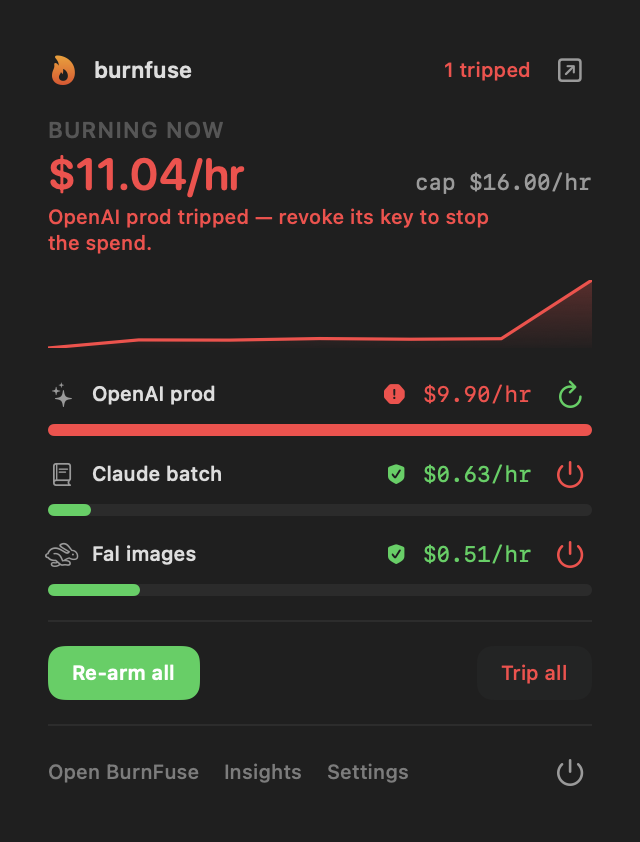
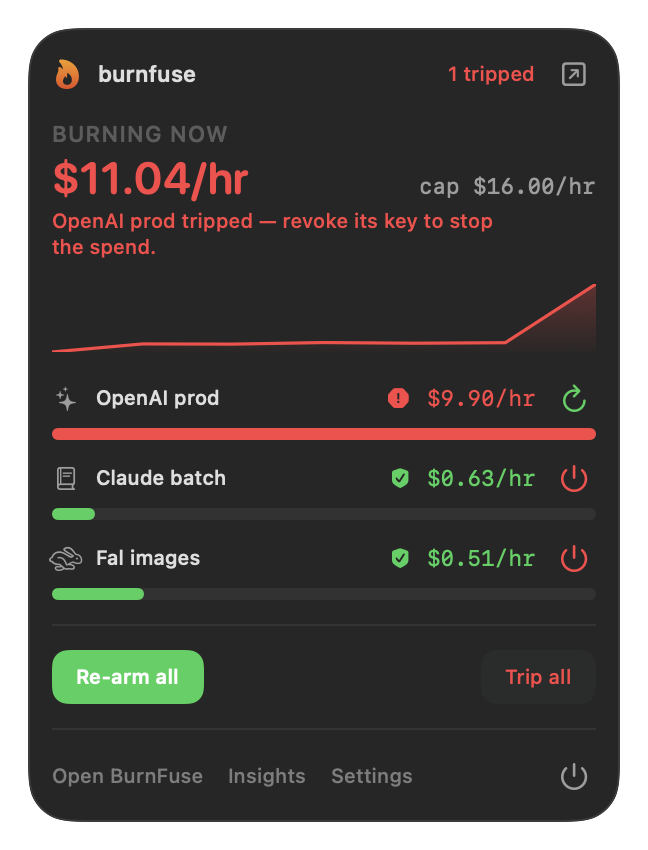
The menu-bar item opens the panel, not the app
Bug report: clicking the menu-bar icon opened the whole BurnFuse window
along with the mini panel — a glance at the burn rate reorganised the
screen. The cause was the shape of the thing: an NSPopover can only be
interactive while its app is active, so showing it began with

    NSApp.activate(ignoringOtherApps: true)

and activating the app is precisely what raised its window over whatever
was open, on whatever Space the window lived on.

The panel is now a `.nonactivatingPanel` — a borderless, transparent
window that can take clicks and key without activating anything, shown
with `orderFrontRegardless()` and joining the Space you are on. The app
opens only when something inside the panel asks for it.

That change moved the chrome onto the panel itself: there is no popover
behind it providing a background, so MiniPanel draws its own rounded
surface and border, and the screenshot pass captures that same view
rather than a fake flat rectangle behind it.

The new behaviour is checked, not asserted. `--panel-self-check` puts the
app in the background with its window away, shows the panel the way a
click does, and reports whether the panel appeared, whether the app
became active and whether any window came back; scripts/verify.sh fails
on the answer. With the old activation line put back, the check reports
`app-active=true` — the bug, caught.

Dismissal is handled where a panel needs it: a click in another app or on
[…]

diff --git a/macos/Sources/BurnFuse/MiniPanelHost.swift b/macos/Sources/BurnFuse/MiniPanelHost.swift
@@ -1,0 +1,158 @@
+import AppKit
+import SwiftUI
+
+/// The window that hangs off the menu-bar item.
+///
+/// A `.nonactivatingPanel`, deliberately not an `NSPopover`. A popover can only
+/// be interactive while its app is active, and activating the app is what
+/// dragged the whole BurnFuse window forward over whatever you were doing —
+/// asking for a glance at the burn rate reorganised the screen. A nonactivating
+/// panel takes clicks, can take key without activating, and joins the Space you
+/// are on, which is what a menu-bar item is supposed to do. The full window
+/// opens only from the actions inside the panel that ask for it.
+@MainActor
+final class MiniPanelHost {
+
+    private let panel: MiniPanelWindow
+    /// The menu-bar item's frame in screen coordinates, so a click on the item
+    /// is left to the item (it is the toggle) while a click anywhere else closes
+    /// the panel.
+    private var anchorRect: NSRect = .zero
+    private var globalClick: Any?
+    private var localClick: Any?
+    private var escape: Any?
+    private var observings: [NSObjectProtocol] = []
+
+    init<Content: View>(content: Content) {
+        let hosting = NSHostingController(rootView: content)
+        hosting.sizingOptions = [.preferredContentSize]
+
+        panel = MiniPanelWindow(
+            contentRect: NSRect(x: 0, y: 0, width: 296, height: 320),
+            styleMask: [.borderless, .nonactivatingPanel],
+            backing: .buffered,
+            defer: false
+        )
+        panel.contentViewController = hosting
+        panel.isFloatingPanel = true
+        panel.level = .statusBar
+        // A panel that hid itself whenever the app was not active would vanish
+        // the moment it appeared: the app is deliberately not activated.
+        panel.hidesOnDeactivate = false
+        // Take key only when something in here actually needs it, so a glance
+        // does not take focus away from what you were typing in.
+        panel.becomesKeyOnlyIfNeeded = true
+        panel.isMovable = false
+        panel.isMovableByWindowBackground = false
+        panel.collectionBehavior = [.canJoinAllSpaces, .fullScreenAuxiliary, .ignoresCycle]
+        panel.backgroundColor = .clear
+        panel.isOpaque = false
+        panel.hasShadow = true
+    }
+
+    var isShown: Bool { panel.isVisible }
+
+    func toggle(relativeTo button: NSStatusBarButton) {
+        if panel.isVisible { hide() } else { show(relativeTo: button) }
+    }
+
+    func show(relativeTo button: NSStatusBarButton) {
+        if let buttonWindow = button.window {
+            anchorRect = buttonWindow.convertToScreen(button.convert(button.bounds, to: nil))
+        }
+        // Size to the content before placing it, so the panel lands under the
+        // item rather than halfway across the screen.
+        if let content = panel.contentViewController?.view {
+            panel.setContentSize(content.fittingSize)
+        }
+        place()
+        // The whole point: order the panel in without activating anything.
+        // `orderFrontRegardless` is what shows a window for an app that stays in
+        // the background.
+        panel.orderFrontRegardless()
+        watchForDismissal()
+    }
+
+    func hide() {
+        stopWatching()
+        panel.orderOut(nil)
+    }
+
+    // MARK: - Placement
+
+    private func place() {
+        let size = panel.frame.size
+        let anchorPoint = NSPoint(x: anchorRect.midX, y: anchorRect.midY)
+        let screen = NSScreen.screens.first { $0.frame.contains(anchorPoint) } ?? NSScreen.main
+
+        // Just under the menu bar item, centred on it, and never off the edge of
+        // the screen it was clicked on.
+        var origin = NSPoint(x: anchorRect.midX - size.width / 2, y: anchorRect.minY - size.height - 8)
+        if let visible = screen?.visibleFrame {
+            origin.x = min(max(origin.x, visible.minX + 8), visible.maxX - size.width - 8)
+            origin.y = max(origin.y, visible.minY + 8)
+        }
+        panel.setFrameOrigin(origin)
+    }
+
+    // MARK: - Dismissing
+
+    private func watchForDismissal() {
+        stopWatching()
+
+        // A click in another app, on the desktop, or on another menu-bar item.
+        // Clicks inside this panel are local events and never reach a global
+        // monitor, so anything arriving here is somewhere else entirely.
+        globalClick = NSEvent.addGlobalMonitorForEvents(matching: [.leftMouseDown, .rightMouseDown]) { [weak self] _ in
+            guard let self, !NSPointInRect(NSEvent.mouseLocation, self.anchorRect) else { return }
+            self.hide()
+        }
+
+        // The same thing for clicks inside this app — the window behind the
+        // panel, or the Dock icon while the app is frontmost.
+        localClick = NSEvent.addLocalMonitorForEvents(matching: [.leftMouseDown, .rightMouseDown]) { [weak self] event in
+            guard let self, self.panel.isVisible else { return event }
+            if event.window === self.panel { return event }
+            if NSPointInRect(NSEvent.mouseLocation, self.anchorRect) { return event }
+            self.hide()
+            return event
+        }
+
+        escape = NSEvent.addLocalMonitorForEvents(matching: [.keyDown]) { [weak self] event in
+            guard event.keyCode == 53 else { return event }
+            self?.hide()
+            return nil
+        }
+
+        // If the app itself is brought forward or put away, the glance is over.
+        for name in [NSApplication.didBecomeActiveNotification,
+                     NSApplication.didResignActiveNotification,
+                     NSApplication.didHideNotification] {
+            observings.append(NotificationCenter.default.addObserver(
+                forName: name,
+                object: nil,
+                queue: .main
+            ) { [weak self] _ in
+                MainActor.assumeIsolated { self?.hide() }
+            })
+        }
+    }
+
+    private func stopWatching() {
+        if let globalClick { NSEvent.removeMonitor(globalClick) }
+        if let localClick { NSEvent.removeMonitor(localClick) }
+        if let escape { NSEvent.removeMonitor(escape) }
+        globalClick = nil
+        localClick = nil
+        escape = nil
+        observings.forEach { NotificationCenter.default.removeObserver($0) }
+        observings = []
+    }
+}
+
+/// A window that can be clicked and shown without activating the app, and that
+/// never pretends to be the app's main window.
+private final class MiniPanelWindow: NSPanel {
+    override var canBecomeKey: Bool { true }
+    override var canBecomeMain: Bool { false }
+}

diff --git a/macos/Sources/BurnFuse/StatusItemController.swift b/macos/Sources/BurnFuse/StatusItemController.swift
@@ -14,11 +14,15 @@ import BurnFuseUI
 ///
 /// Left click opens the panel (a miniature of the app). Right click opens a menu
 /// with the housekeeping actions.
+///
+/// The click shows the panel and nothing else: it does not activate the app, so
+/// it does not bring the app's window forward. `MiniPanelHost` holds the panel
+/// and the reasons it is not an `NSPopover`.
 @MainActor
 final class StatusItemController: NSObject {
     private let model: AppModel
     private let statusItem: NSStatusItem
-    private let popover = NSPopover()
+    private var panel: MiniPanelHost!
     private var cancellable: AnyCancellable?
 
     init(model: AppModel) {
@@ -31,20 +35,14 @@ final class StatusItemController: NSObject {
         statusItem.button?.sendAction(on: [.leftMouseUp, .rightMouseUp])
         statusItem.button?.imagePosition = .imageOnly
 
-        popover.behavior = .transient
-        popover.animates = false
-        let panel = MiniPanel(
+        panel = MiniPanelHost(content: MiniPanel(
             model: model,
-            onOpen: { section in
+            onOpen: { [weak self] section in
+                self?.panel.hide()
                 AppRouter.shared.show(section)
-                self.popover.performClose(nil)
             },
             onQuit: { NSApplication.shared.terminate(nil) }
-        )
-        let hosting = NSHostingController(rootView: panel)
-        // Let the popover track the panel's own size instead of guessing it.
-        hosting.sizingOptions = [.preferredContentSize]
-        popover.contentViewController = hosting
+        ))
 
         refresh()
 
@@ -97,13 +95,18 @@ final class StatusItemController: NSObject {
 
     private func togglePopover() {
         guard let button = statusItem.button else { return }
-        if popover.isShown {
-            popover.performClose(nil)
-        } else {
-            NSApp.activate(ignoringOtherApps: true)
-            popover.show(relativeTo: button.bounds, of: button, preferredEdge: .minY)
-            popover.contentViewController?.view.window?.makeKey()
-        }
+        panel.toggle(relativeTo: button)
+    }
+
+    // MARK: - For the self-check in scripts/verify.sh
+
+    var isPanelShown: Bool { panel.isShown }
+
+    /// Show the panel the way a click does, so the launch check can assert what
+    /// a click does and does not do to the rest of the screen.
+    func showPanelForSelfCheck() {
+        guard let button = statusItem.button else { return }
+        panel.show(relativeTo: button)
     }
 
     private func showMenu() {

diff --git a/macos/Sources/BurnFuse/BurnFuseApp.swift b/macos/Sources/BurnFuse/BurnFuseApp.swift
@@ -105,8 +105,39 @@ final class AppDelegate: NSObject, NSApplicationDelegate {
         // drawn; SwiftUI's MenuBarExtra would template it to monochrome.
         statusItem = StatusItemController(model: model)
 
+        if CommandLine.arguments.contains("--panel-self-check") {
+            runPanelSelfCheck()
+            return
+        }
+
         NSApp.activate(ignoringOtherApps: true)
         UNUserNotificationCenter.current().requestAuthorization(options: [.alert, .sound]) { _, _ in }
+    }
+
+    /// Prove what a click on the menu-bar item does, and does not, do.
+    ///
+    /// The bug this exists for: showing the panel activated the app, so the whole
+    /// BurnFuse window came forward over whatever was on screen — a glance at the
+    /// burn rate reorganised your desktop. Here the app is put in the background
+    /// with its window away, the panel is shown exactly as a click shows it, and
+    /// the check fails if the app became active again or any window came back.
+    private func runPanelSelfCheck() {
+        guard let statusItem else { exit(2) }
+
+        // As if the window had been closed and you had gone back to work.
+        for window in NSApp.windows { window.orderOut(nil) }
+        NSApp.deactivate()
+
+        DispatchQueue.main.asyncAfter(deadline: .now() + 0.4) {
+            statusItem.showPanelForSelfCheck()
+            DispatchQueue.main.asyncAfter(deadline: .now() + 0.6) {
+                let panelShown = statusItem.isPanelShown
+                let appActive = NSApp.isActive
+                let windowVisible = NSApp.windows.contains { $0.isVisible && !($0 is NSPanel) }
+                print("SELF-CHECK panel-shown=\(panelShown) app-active=\(appActive) window-visible=\(windowVisible)")
+                exit(panelShown && !appActive && !windowVisible ? 0 : 1)
+            }
+        }
     }
 
     /// Closing the window leaves BurnFuse running in the menu bar.

diff --git a/macos/Sources/burnfuse-shots/Shots.swift b/macos/Sources/burnfuse-shots/Shots.swift
@@ -204,10 +204,12 @@ struct BurnFuseShots {
 
     /// The menu-bar popover: a miniature of the app.
     @MainActor static func captureMiniPanel(_ model: AppModel, _ scheme: ColorScheme) -> NSImage? {
+        // The panel exactly as the app draws it — its own chrome, in a
+        // borderless window — with a margin left for the window shadow, which is
+        // AppKit's and so is not rendered here.
         let panel = MiniPanel(model: model)
-            .padding(12)
-            .background(Color(white: scheme == .dark ? 0.12 : 0.95))
-        return capture(AnyView(panel), scheme: scheme, width: 320, height: 400, fit: true)
+            .padding(14)
+        return capture(AnyView(panel), scheme: scheme, width: 324, height: 400, fit: true)
     }
 
     // MARK: - Marketing card

diff --git a/macos/Sources/BurnFuseUI/MiniPanel.swift b/macos/Sources/BurnFuseUI/MiniPanel.swift
@@ -50,6 +50,17 @@ public struct MiniPanel: View {
         }
         .padding(DS.Space.md)
         .frame(width: 296)
+        // The panel draws its own chrome: it lives in a borderless, transparent
+        // window, so there is no popover behind it to provide a background, and
+        // the window's shadow is computed from what is drawn here.
+        .background(
+            RoundedRectangle(cornerRadius: DS.Radius.large + 6, style: .continuous)
+                .fill(Material.thickMaterial)
+        )
+        .overlay(
+            RoundedRectangle(cornerRadius: DS.Radius.large + 6, style: .continuous)
+                .strokeBorder(Color(nsColor: .separatorColor), lineWidth: 1)
+        )
         .environment(\.glassPanels, true)
     }
 

diff --git a/README.md b/README.md
@@ -35,7 +35,11 @@ red the moment the breaker trips. Click it and you get a miniature of the app: t
 live number, the same watch list, without leaving what you were doing.
 
 The menu bar isn't a menu — it's the app, shrunk. Live burn, the trend, every watched key
-and the one action that matters, all in one small panel:
+and the one action that matters, all in one small panel. It opens as a panel that does not
+take your focus: clicking the item shows the burn over whatever you are doing, without
+activating BurnFuse and without pulling its window in front of your work. Nothing moves
+except the panel — the app opens only when you ask it to, from the panel's own
+**Open BurnFuse**.
 
 <p align="center">
   <img src="assets/mini-panel-dark.png" width="300" alt="The BurnFuse menu-bar panel: a miniature of the app with live burn and watched keys">
@@ -308,8 +312,8 @@ Layout:
 
 ```
 macos/               Swift package: the app
-  Sources/BurnFuse/       entry point, menu-bar item
-  Sources/BurnFuseUI/     window, panel, design system, burn engine, live spend
+  Sources/BurnFuse/       entry point, menu-bar item and its panel
+  Sources/BurnFuseUI/     window, panel content, design system, burn engine, live spend
   Sources/burnfuse-shots/ icon + screenshot + marketing renderer
 scripts/             build, install, package, verify and screenshot scripts
 assets/              app icon, window screenshots and the marketing card

diff --git a/MARKETING.md b/MARKETING.md
@@ -64,6 +64,12 @@ from the product. Run `./scripts/screenshots.sh` to regenerate the whole set.
 - **"It reads the number itself."** Paste a read-only key for OpenAI, Anthropic or
   OpenRouter and BurnFuse pulls spend from the provider's own cost endpoint every minute.
   No scripts, no terminal, no pasting a number by hand every hour.
+- **"A glance costs you nothing."** The menu-bar panel is a real nonactivating panel, not
+  a popover bolted to an activating app: click the item and it appears over what you are
+  doing, on the Space you are on, without becoming the front app and without dragging the
+  BurnFuse window over your work. The window opens only when you ask for it. Verify it
+  yourself — `./scripts/verify.sh` includes a check that fails if showing the panel so
+  much as activates the app.
 - **"A no is explained where you typed it."** If OpenAI turns a standard project key down
   for cost reads, the same row offers the way out in place — type this key's spend by hand
   instead — instead of sending you to a second list that never worked for you anyway.
